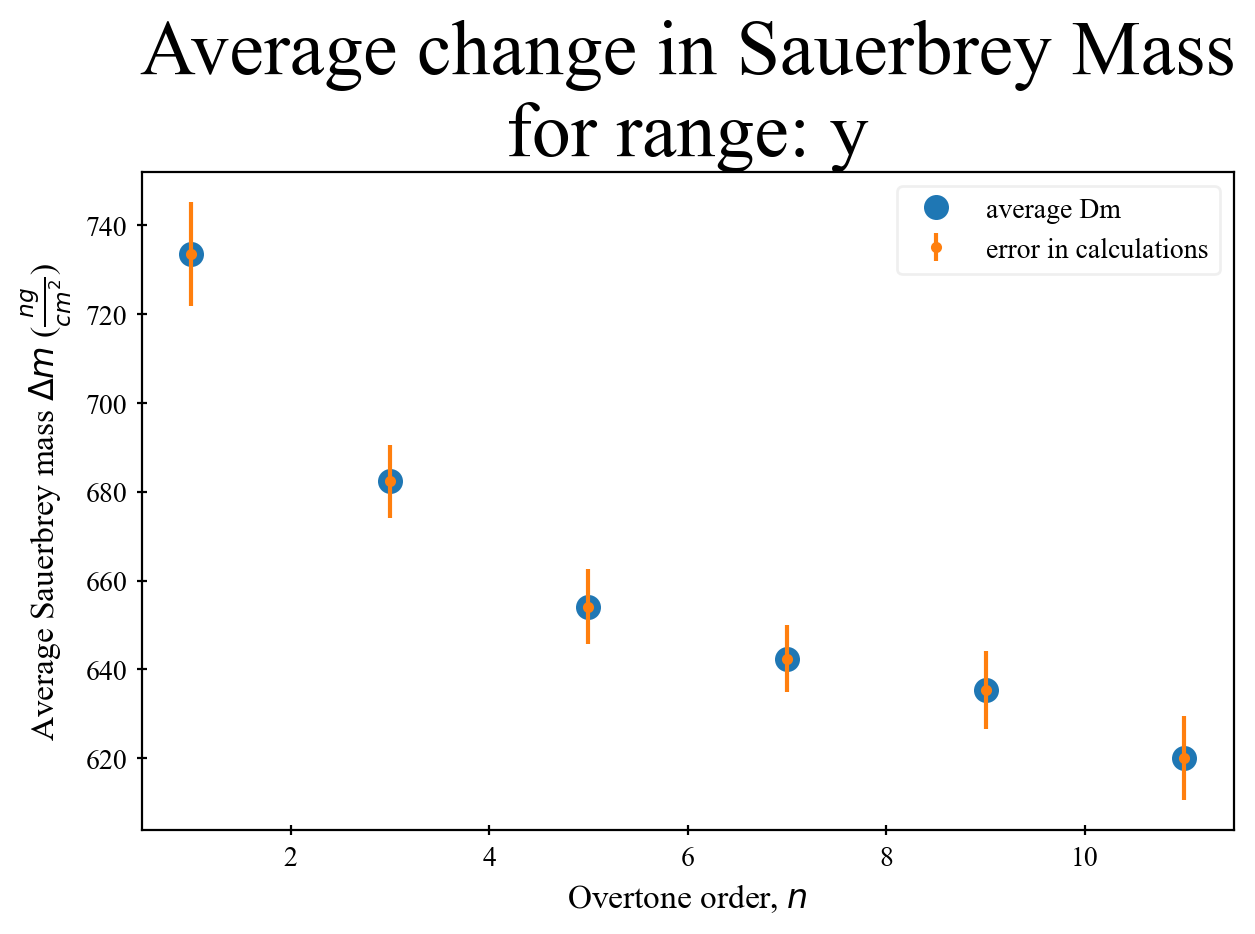
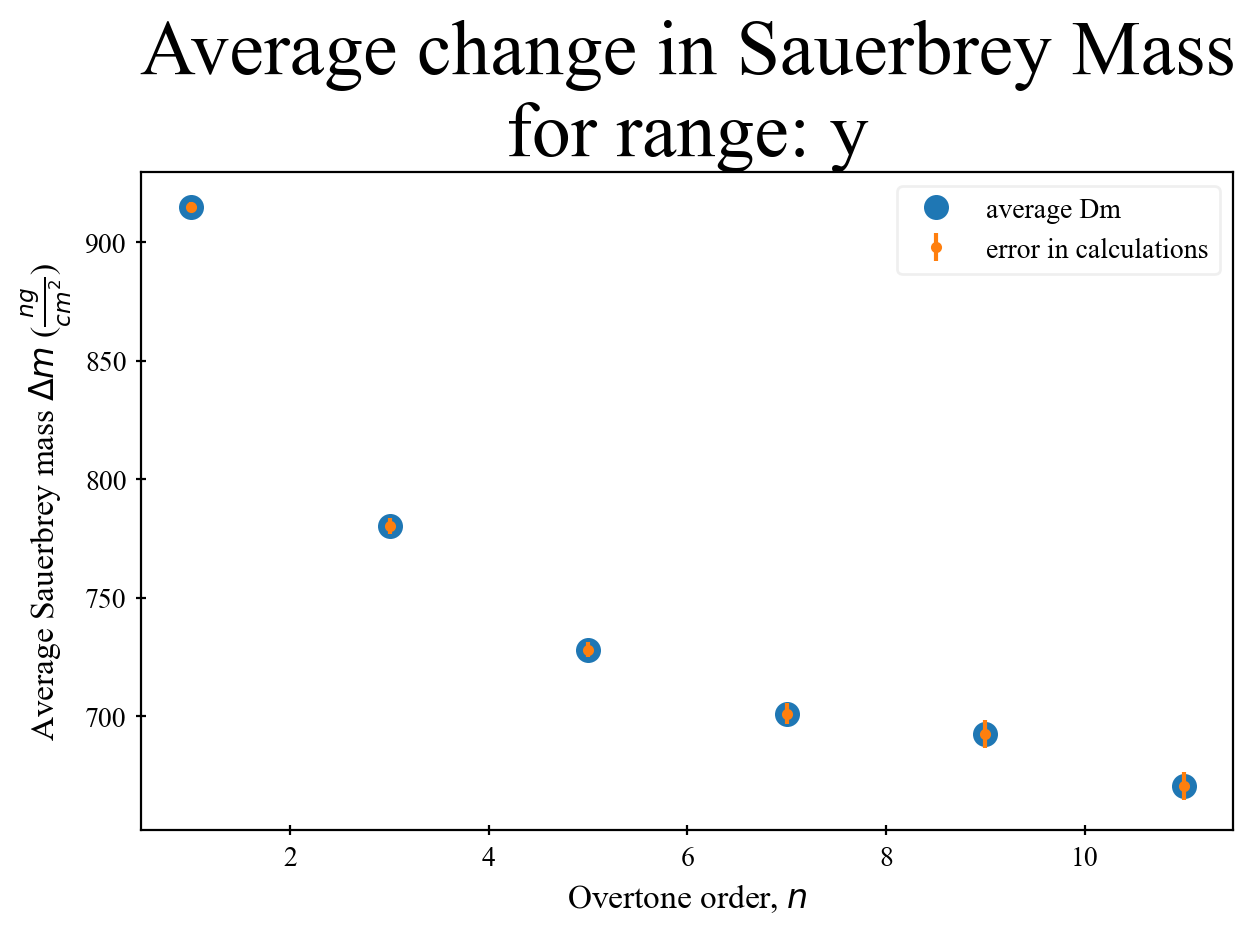
implemented avg Df v ov num

diff --git a/BraTaDio_Fn/modeling.py b/BraTaDio_Fn/modeling.py
@@ -10,7 +10,7 @@ import matplotlib.pyplot as plt
 from scipy.optimize import curve_fit
 
 import Exceptions
-from analyze import get_plot_preferences, map_colors
+from analyze import get_plot_preferences, map_colors, get_num_from_string
 
 # pass in 3 dimensional array of data values
     # inner most arrays are of individual values [val_x1, val_x2, ... val_xn]
@@ -221,6 +221,12 @@ def get_labels(label, type, usetex=False):
         title = f"Average change in Sauerbrey Mass\nfor range: {label}"
         x = 'Overtone order, $\it{n}$'
         y = 'Average Sauerbrey mass $\it{Δm}$ ' + r'($\frac{ng}{cm^2}$)'
+
+    elif type == 'avg_Df':
+        data_label = f"average Df"
+        title = f"Average change in Frequency\nfor range: {label}"
+        x = 'Overtone order, $\it{n}$'
+        y = 'Average Change in Frequency $\it{Δf}$ ' + '(Hz)'
     
     else:
         return None
@@ -279,9 +285,8 @@ def linear_regression(user_input):
         print("Linear Regression Complete")
         plt.rc('text', usetex=False)
 
-def sauerbrey(user_input):
-    use_theoretical_vals, df_normalized, x_timescale, fig_format = user_input
-    print("Modeling Sauerbrey function...")
+def sauerbrey(fig_format):
+    print("Analyzing Sauerbrey equation...")
     df = pd.read_csv("selected_ranges/Sauerbrey_stats.csv")
     labels = df['range_used'].unique()
     overtones = df['overtone'].unique() # overtone number (x)
@@ -301,39 +306,38 @@ def sauerbrey(user_input):
         sauerbray_range_plot.tight_layout()
         plt.savefig(f"qcmd-plots/equation/Sauerbrey_range_{label}.{fig_format}", format=fig_format, bbox_inches='tight', dpi=200)
 
+    print("Sauerbrey analysis complete")
+    plt.rc('text', usetex=False)
+
+def avg_Df(fig_format):
+    print("Analyzing average change in frequency...")
+
+    df = pd.read_csv("selected_ranges/all_stats_rf.csv")
+    df = df[(df!= 0).all(1)] # remove rows with 0 (unselected rows)
+    labels = df['range_used'].unique()
+    overtones = df['overtone'].unique() # overtone number (x)
+    overtones = np.asarray([get_num_from_string(ov) for ov in overtones]) # get just the number from overtone labels
+    print(f"LABELS: {labels}; OVERTONES: {overtones}")
+    color_map, _ = map_colors(get_plot_preferences())
 
     for label in labels:
         df_range = df.loc[df['range_used'] == label]
-
-        '''for ov in overtones:
-            df_ov_range = df_range.loc[df_range['overtone'] == ov]
-            if use_theoretical_vals:
-                C = 17.7
-            else:
-                C = 0 # will later contain experimental value
-
-            # n = 1 for fundamental, for rest of overtones we pull the first char being the number
-            n = 1 if ov == 'fundamental_freq' else int(ov[0])
-
-            Df = df_ov_range['freq'].values
-            time = df_ov_range['time'].values
-            Dm = -C *  Df if df_normalized else -C * (Df/n)
-
-            # plot and save
-            x_label = determine_xlabel(x_timescale)
-            y_label = 'Sauerbrey mass $\it{Δm}$ ' + r'($\frac{ng}{cm^2}$)'
-            title = f"Sauerbrey eqn for range: {label}, overtone: {ov}"
-            plot_label = "Sauerbrey eqn"
-            Sauerbrey_plot, ax = plot_data(time, Dm, None, None, plot_label, 'equation', False, color_map[ov])
-            format_plot(ax, x_label, y_label, title)
-            Sauerbrey_plot.tight_layout()
-            plt.savefig(f"qcmd-plots/Sauerbrey_label-ov_{label}-{ov}.{fig_format}", format=fig_format, bbox_inches='tight', dpi=200)'''
+        mu_Df = df['Dfreq_mean'].values # average change in frequency (y)
+        delta_mu_Df = df['Dfreq_std_dev'].values # std dev of y
+        data_label, x_label, y_label, title = get_labels(label, 'avg_Df')
+        if mu_Df.shape != overtones.shape:
+            raise Exceptions.ShapeMismatchException((mu_Df.shape, overtones.shape),"ERROR: Different number of overtones selected in UI than found in stats file")
         
-    print("Sauerbrey Analysis Complete")
+        avg_Df_range_plot, ax = plot_data(overtones, mu_Df, None, delta_mu_Df, data_label, True)
+        format_plot(ax, x_label, y_label, title)
+        avg_Df_range_plot.tight_layout()
+        plt.savefig(f"qcmd-plots/equation/Avg_Df_range_{label}.{fig_format}", format=fig_format, bbox_inches='tight', dpi=400)
+
+    print("Average change in frequency analysis complete")
     plt.rc('text', usetex=False)
 
-    
 
+# main used for testing
 if __name__ == "__main__":
     which_plot = {'raw': {'fundamental_freq': False, 'fundamental_dis': False, '3rd_freq': False, '3rd_dis': False,
                             '5th_freq': False, '5th_dis': False, '7th_freq': False, '7th_dis': False,

diff --git a/BraTaDio_Fn/main.py b/BraTaDio_Fn/main.py
@@ -14,7 +14,7 @@ import json
 import Exceptions
 from analyze import analyze_data, clear_figures, ordinal
 from format_file import format_raw_data
-from modeling import linear_regression, sauerbrey
+from modeling import linear_regression, sauerbrey, avg_Df
 
 '''
 WIP
@@ -208,6 +208,9 @@ class App(tk.Tk):
     def open_model_window(self):
         self.modeling_window.open_modeling_window(self)
         self.modeling_window.fill_modeling_window(self)
+
+    def destroy_model_window(self):
+        self.modeling_window.destroy_modeling_window(self)
 
     def choose_color(self, ov_num):
         self.plot_opts_window.choose_color(self, ov_num)
@@ -683,7 +686,7 @@ class Col4(tk.Frame):
             input.will_interactive_plot = False
             input.range_frame_flag = False
             self.parent.repack_frames()
-            self.parent.modeling_window.destroy_model_window()
+            self.parent.destroy_model_window()
             self.interactive_plot_opts.grid_forget()
 
     def submit(self):
@@ -692,8 +695,7 @@ class Col4(tk.Frame):
         if input.first_run:
             format_raw_data(input.file_src_type, input.file_name, input.file_path)
         clear_figures()
-        model_window = self.parent.modeling_window
-        if model_window.is_visible:
+        if input.range_frame_flag:
             input.interactive_plot_overtone = int(self.interactive_plot_overtone_select.get())
 
         analyze_data(input)
@@ -716,9 +718,9 @@ class ModelingWindow():
         self.parent = parent
 
     def open_modeling_window(self):
-        model_window = tk.Toplevel(self)
-        model_window.title('Customize Plots')
-        self.models_frame = tk.Frame(model_window)
+        self.model_window = tk.Toplevel(self)
+        self.model_window.title('Customize Plots')
+        self.models_frame = tk.Frame(self.model_window)
         self.models_frame.pack(side='left', anchor='n')
 
     def fill_modeling_window(self):
@@ -759,8 +761,13 @@ class ModelingWindow():
 
         # run sauerbrey button
         self.run_sauerbrey_analysis_button = tk.Button(self.models_frame, text="Run Sauerbrey analysis\nof overtones", padx=6, pady=4, width=20,
-                                             command=lambda: sauerbrey((input.will_use_theoretical_vals, input.will_normalize_F, input.x_timescale, input.fig_format)))
+                                             command=lambda: sauerbrey(input.fig_format))
         self.run_sauerbrey_analysis_button.grid(row=8, column=0, pady=4)
+
+        # avg change in freq against overtone button
+        self.run_avg_Df_button = tk.Button(self.models_frame, text="Run button thingy\nof overtones", padx=6, pady=4, width=20,
+                                             command=lambda: avg_Df(input.fig_format))
+        self.run_avg_Df_button.grid(row=10, column=0, pady=4)
 
     def destroy_modeling_window(self):
         self.model_window.destroy()

diff --git a/BraTaDio_Fn/format_file.py b/BraTaDio_Fn/format_file.py
@@ -60,7 +60,7 @@ def format_QCMi(df):
     
     # rename columns
     if 'Channel A QCM Time [sec]' in df.columns:
-        df = df.rename(columns={'Channel A QCM Time [sec]':'Time',
+        df.rename(columns={'Channel A QCM Time [sec]':'Time',
             'Channel A Fundamental Frequency [Hz]':freqs[0],'Channel A Fundamental Dissipation [ ]':disps[0],
             'Channel A 3. Overtone [Hz]':freqs[1], 'Channel A 3. Dissipation  [ ]':disps[1],
             'Channel A 5. Overtone [Hz]':freqs[2], 'Channel A 5. Dissipation  [ ]':disps[2],
@@ -77,7 +77,7 @@ def format_Qsense(df):
     df = df.iloc[:, :-2]
 
     if 'F_1:1' in df.columns:
-        df.rename(columns={'Time_1':'Time',
+        renamed_df = df.rename(columns={'Time_1':'Time',
         'F_1:1':freqs[0], 'D_1:1':disps[0],
         'F_1:3':freqs[1], 'D_1:3':disps[1],
         'F_1:5':freqs[2], 'D_1:5':disps[2],
@@ -86,24 +86,23 @@ def format_Qsense(df):
         'F_1:11':freqs[5], 'D_1:11':disps[5],
         'F_1:13':freqs[6], 'D_1:13':disps[6]}, inplace=True)
 
-    return df
+    return renamed_df
 
 def format_raw_data(src_type, fn, fp):
     df = open_df_from_file(fn, fp)
     if src_type == 'QCM-d':
-        df = format_QCMd(df)
+        formatted_df = format_QCMd(df)
     elif src_type == 'QCM-i':
-        df = format_QCMi(df)
+        formatted_df = format_QCMi(df)
     elif src_type == 'Qsense':
-        df = format_Qsense(df)
+        formatted_df = format_Qsense(df)
     else:
         print("invalid option selected")
         sys.exit(1)
     
     file_name, ext = os.path.splitext(fn)
     print(file_name)
-    print(df.head)
-    df.to_csv(f"raw_data/Formatted-{file_name}.csv", index=False)
+    formatted_df.to_csv(f"raw_data/Formatted-{file_name}.csv", index=False)
 
 
 if __name__ == '__main__':

diff --git a/BraTaDio_Fn/analyze.py b/BraTaDio_Fn/analyze.py
@@ -205,7 +205,6 @@ def range_statistics(df, imin, imax, overtone_sel, which_range, fn, C, df_normal
                 median_y_sauerbrey = np.median(y_sel_Dm)
                 saurbrey_stat_file.write(f"{n},{mean_y_sauerbray:.16E},{std_dev_y_sauerbrey:.16E},{median_y_sauerbrey:.16E},{which_range},{fn}\n")
 
-
             elif ov.__contains__('dis'):
                 dis_stat_file.write(f"{ov},{mean_y:.16E},{std_dev_y:.16E},{median_y:.16E},{which_range},{fn}\n")
         
@@ -562,14 +561,17 @@ def analyze_data(input):
                 int_plot.canvas.draw_idle()
 
                 # prep and save data to file
+                # frequency stats for bandwidth shift
                 stats_out_fn = 'all_stats_rf.csv'
                 header = f"overtone,Dfreq_mean,Dfreq_std_dev,Dfreq_median,range_used,data_source\n"
                 prepare_stats_file(header, input.which_range_selecting, input.file_name, stats_out_fn)
                 
+                # dissipation stats for bandwidth shift
                 stats_out_fn = 'all_stats_dis.csv'
                 header = f"overtone,Ddis_mean,Ddis_std_dev,Ddis_median,range_used,data_source\n"
                 prepare_stats_file(header, input.which_range_selecting, input.file_name, stats_out_fn)
 
+                # frequency values inserted into Sauerbrey equation
                 stats_out_fn = 'Sauerbrey_stats.csv'                
                 header = f"overtone,Dm_mean,Dm_std_dev,Dm_median,range_used,data_source\n"
                 prepare_stats_file(header, input.which_range_selecting, input.file_name, stats_out_fn)

diff --git a/BraTaDio_Fn/README.md b/BraTaDio_Fn/README.md
@@ -128,10 +128,7 @@ if it is not, please comment out the 2 lines below
 
 ### WIP
 
-- do same thing as change in M as f(overtone), for change in F
-    - put in modeling section
-
-- put column 5 (modeling) into new window
+- make sauerbrey and avg df work for multiple ranges
 
 - bandwidth shift add hz units to x and y axis, and title to thin film in liquid
     - in legend remove 1st and 3rd items
@@ -162,6 +159,14 @@ if it is not, please comment out the 2 lines below
 
 5/16
 - modeling options moved from 5th column of main UI to a new window that opens upon selecting the interactive plot
+- added functionality to close modeling window when unchecking interactive plot box
+- added button to analyze avg change in frequency against overtone numbers
+- added functionality to plot average change in frequency against overtone numbers (akin to Sauerbrey equation just without the actual equation)
+- fix bug where non selected frequencies that have 0 rows in range data are still plotted
+- fixed labels for avg change in frequency plots
+- fixed bug in renaming dataframe to bratadio format
+- fixed bug when grabbing overtone selection for int plot, was checking if model window is visible when it didn't have that attribute, changed to input.range_frame_flag
+
 
 5/14
 - progress on moving column 5 (modeling) to new window instead
